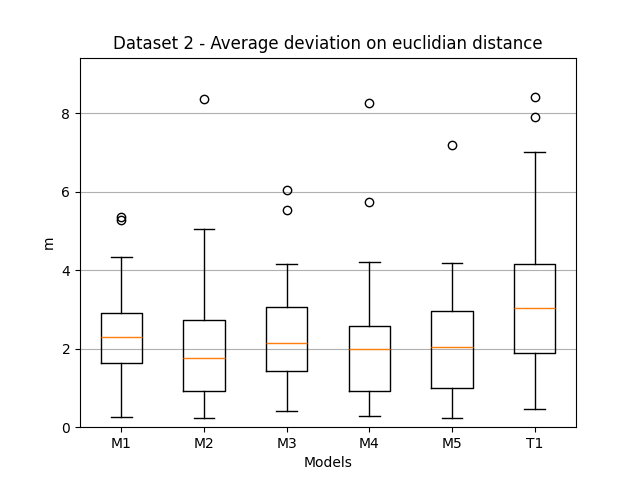
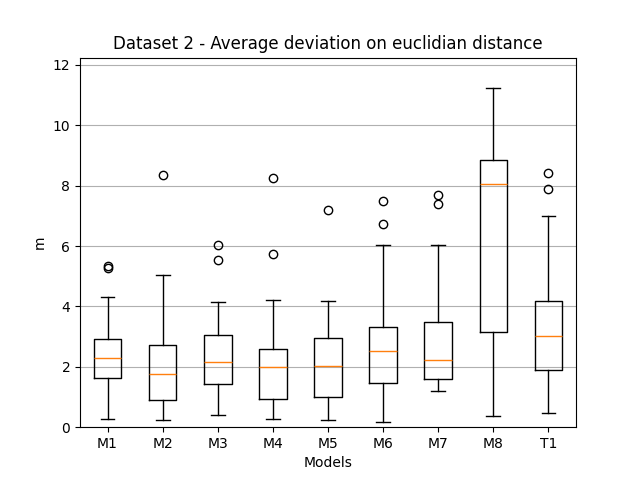
Mediciones

diff --git a/01-posicionamiento/paper1/04_predictions.py b/01-posicionamiento/paper1/04_predictions.py
@@ -23,14 +23,14 @@ from lib.trainingcommon import load_data
 
 # Definimos el listado de modelos a diseñar
 models = [
-    'M1',
-    'M2',
-    'M3',
-    'M4', 
-    'M5', 
+    # 'M1',
+    # 'M2',
+    # 'M3',
+    # 'M4', 
+    # 'M5', 
     # 'M6', 
     # 'M7',
-    # 'M8'
+    'M8'
 ]
 
 # Dataset a emplear

diff --git a/01-posicionamiento/paper1/05_charts.py b/01-posicionamiento/paper1/05_charts.py
@@ -14,9 +14,9 @@ models = [
     'M3',
     'M4',
     'M5',
-    # 'M6',
-    # 'M7',
-    # 'M8',
+    'M6',
+    'M7',
+    'M8',
     'T1'
 ]
 
